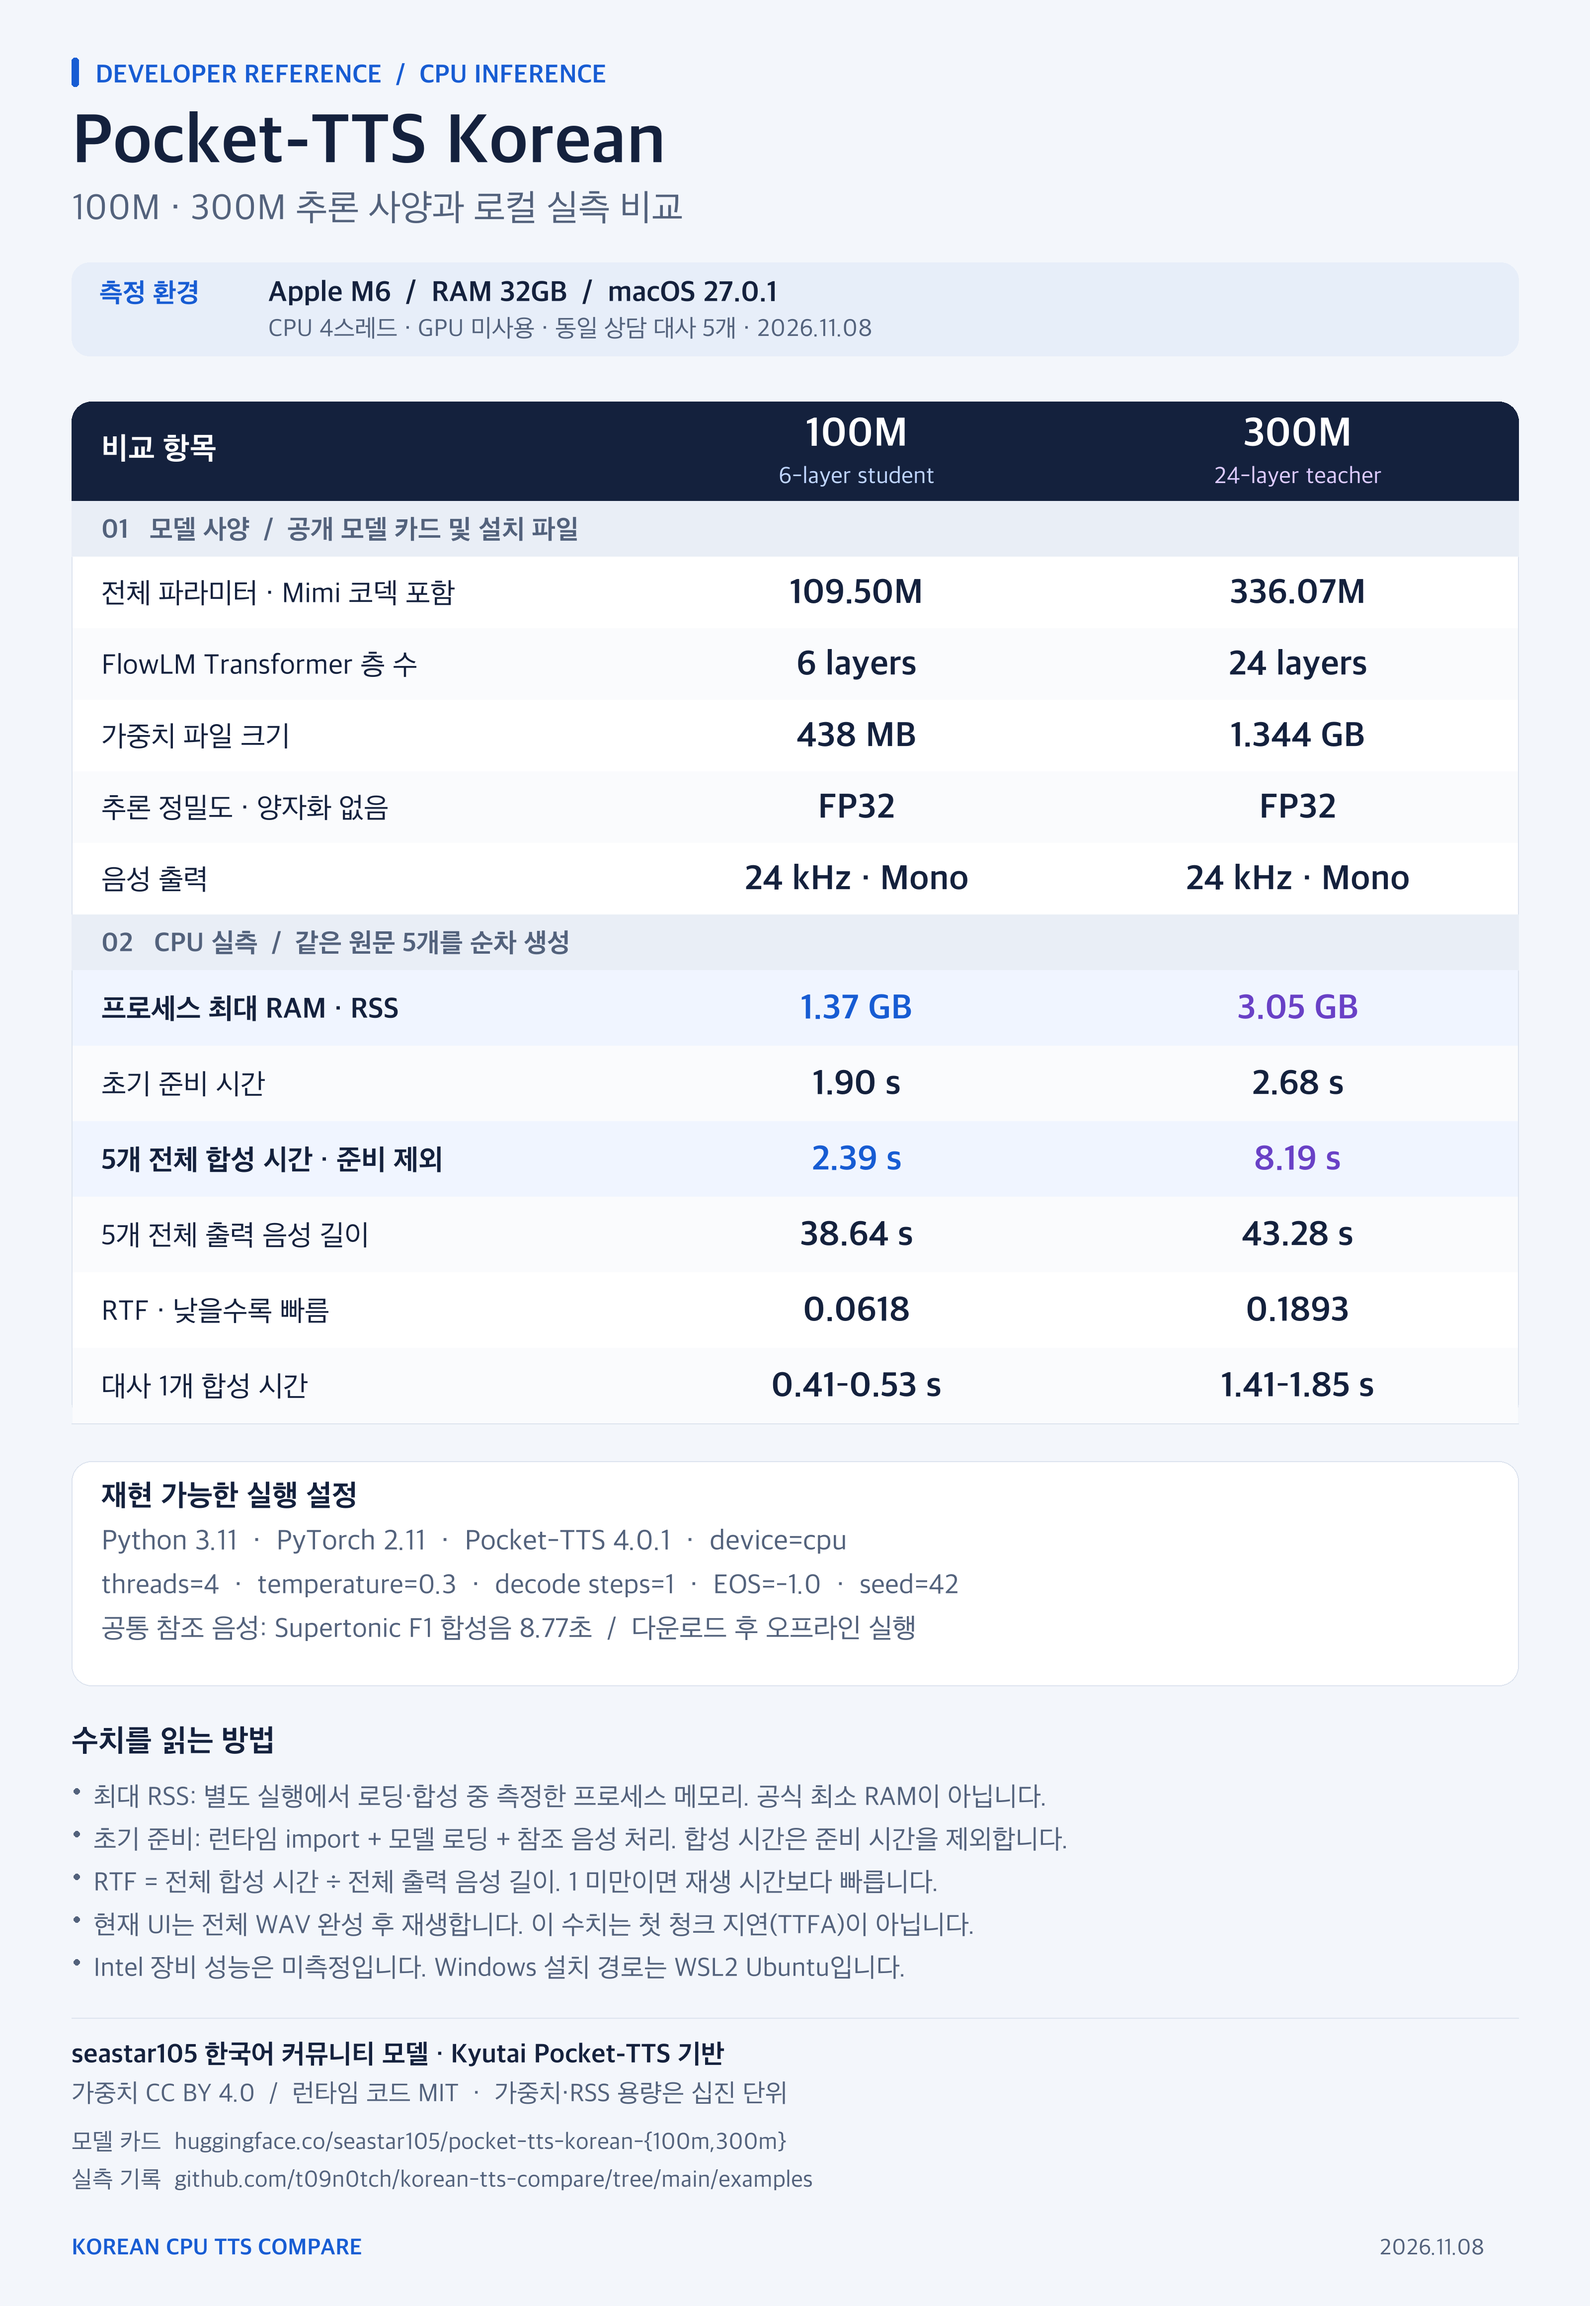
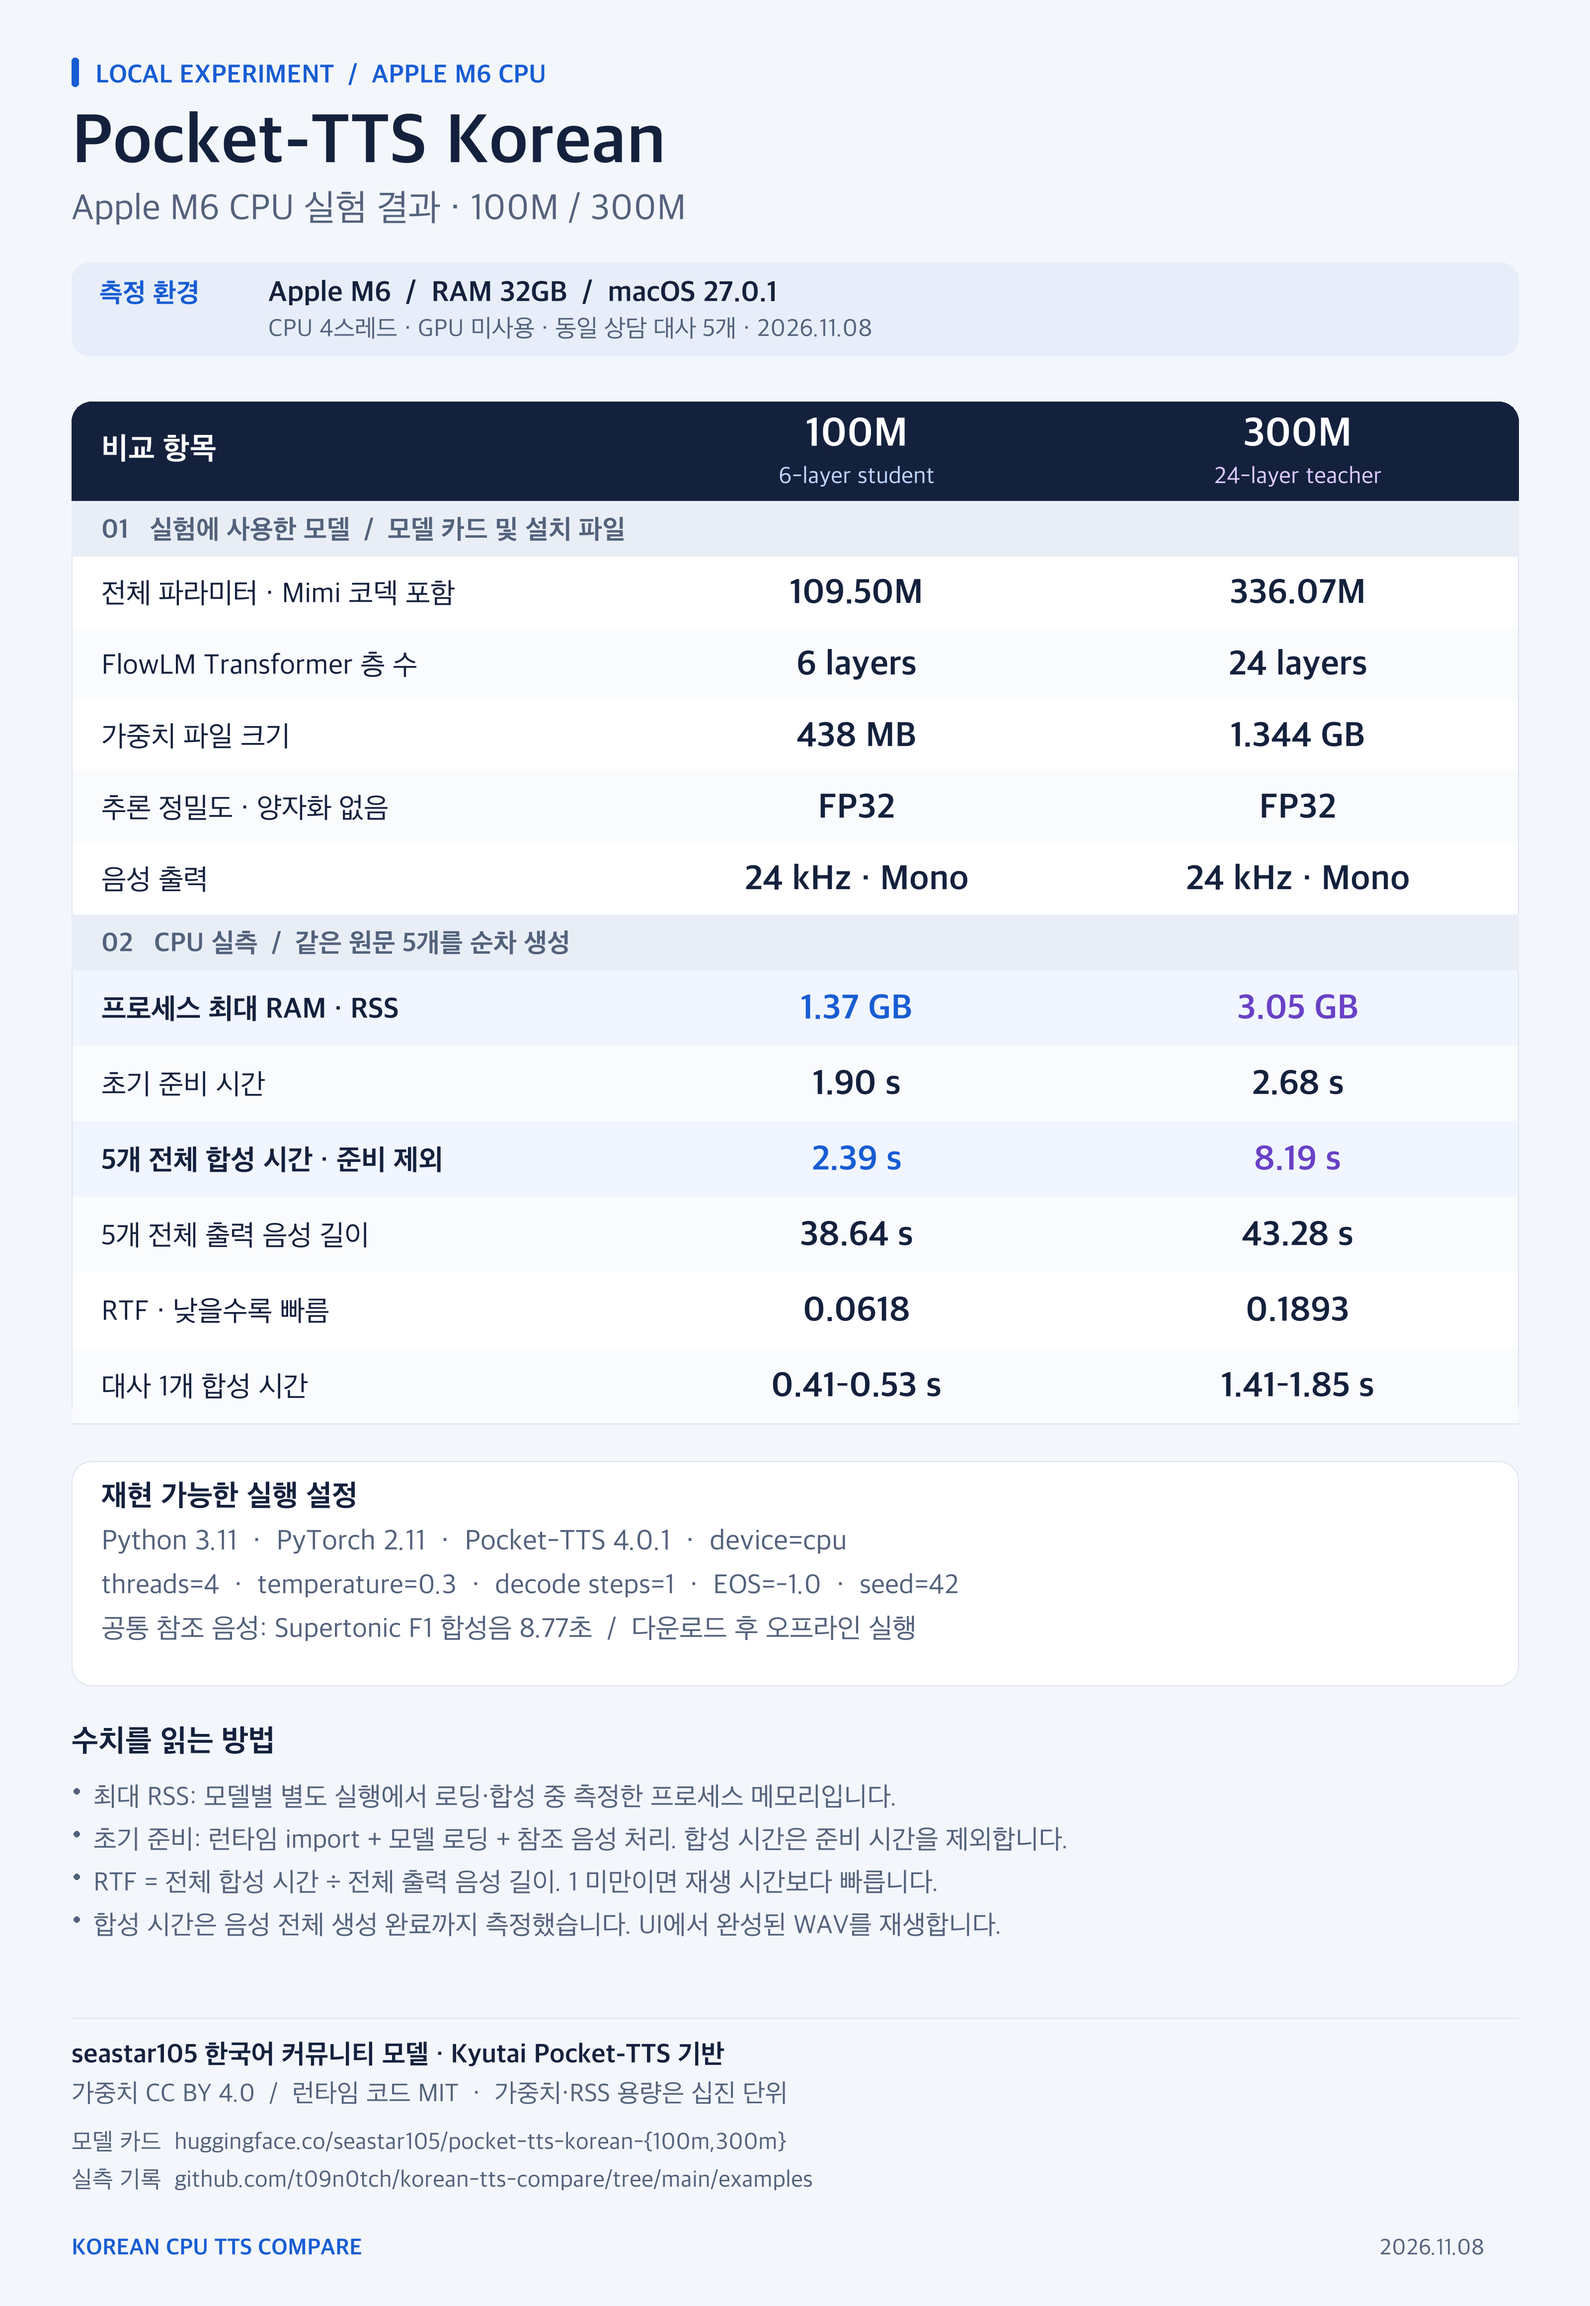
Focus Pocket comparison graphic on measured Apple M6 experiment

diff --git a/README.md b/README.md
@@ -67,7 +67,7 @@
 
 ## Pocket Korean 개발자용 사양 이미지
 
-100M·300M의 모델 사양, 실제 프로세스 메모리, 합성 시간과 재현 설정을 한 장으로 정리했습니다. 아래 성능은 **Apple M6 / RAM 32GB / CPU 4스레드**의 상담 대사 5개 실측이며 Intel 성능을 뜻하지 않습니다. 메모리는 별도 실행에서 측정한 최대 RSS이고 공식 최소 RAM 요구량이 아닙니다.
+**Apple M6 / RAM 32GB / CPU 4스레드**에서 상담 대사 5개로 실험한 결과입니다. 실험에 사용한 100M·300M 모델 사양, 실제 프로세스 메모리, 합성 시간과 재현 설정을 한 장으로 정리했습니다. 메모리는 모델별 별도 실행에서 로딩·합성 중 측정한 프로세스 최대 RSS입니다.
 
 [PNG 원본 3200×4640](docs/images/pocket-korean-inference-specs.png) · [편집 가능한 SVG](docs/images/pocket-korean-inference-specs.svg) · [사양·메모리 측정 기록](examples/pocket-inference-specs.json) · [합성 시간 원본 기록](examples/counseling-benchmark.json)
 
